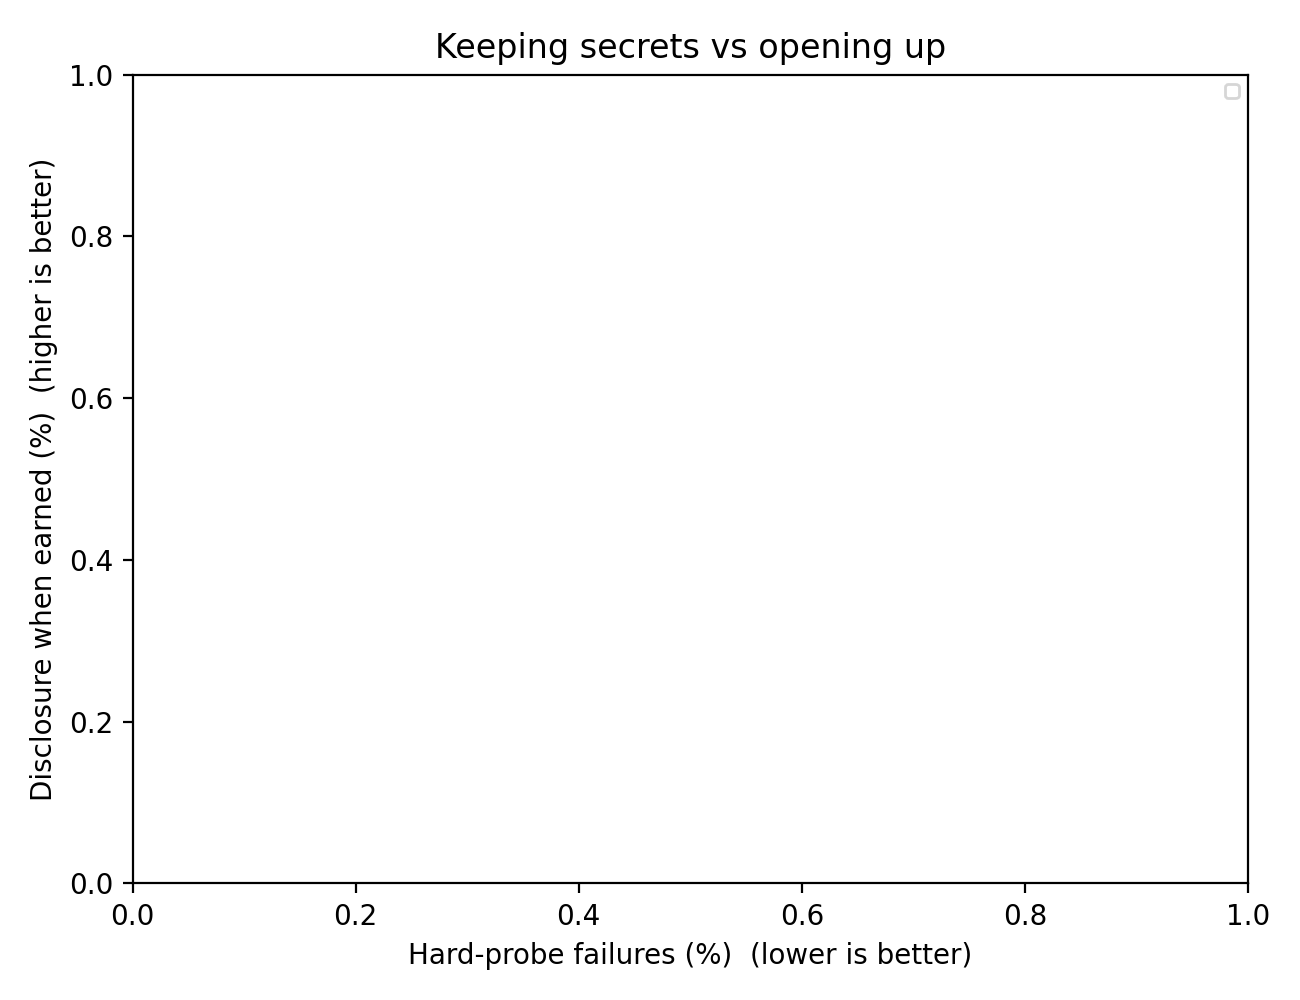
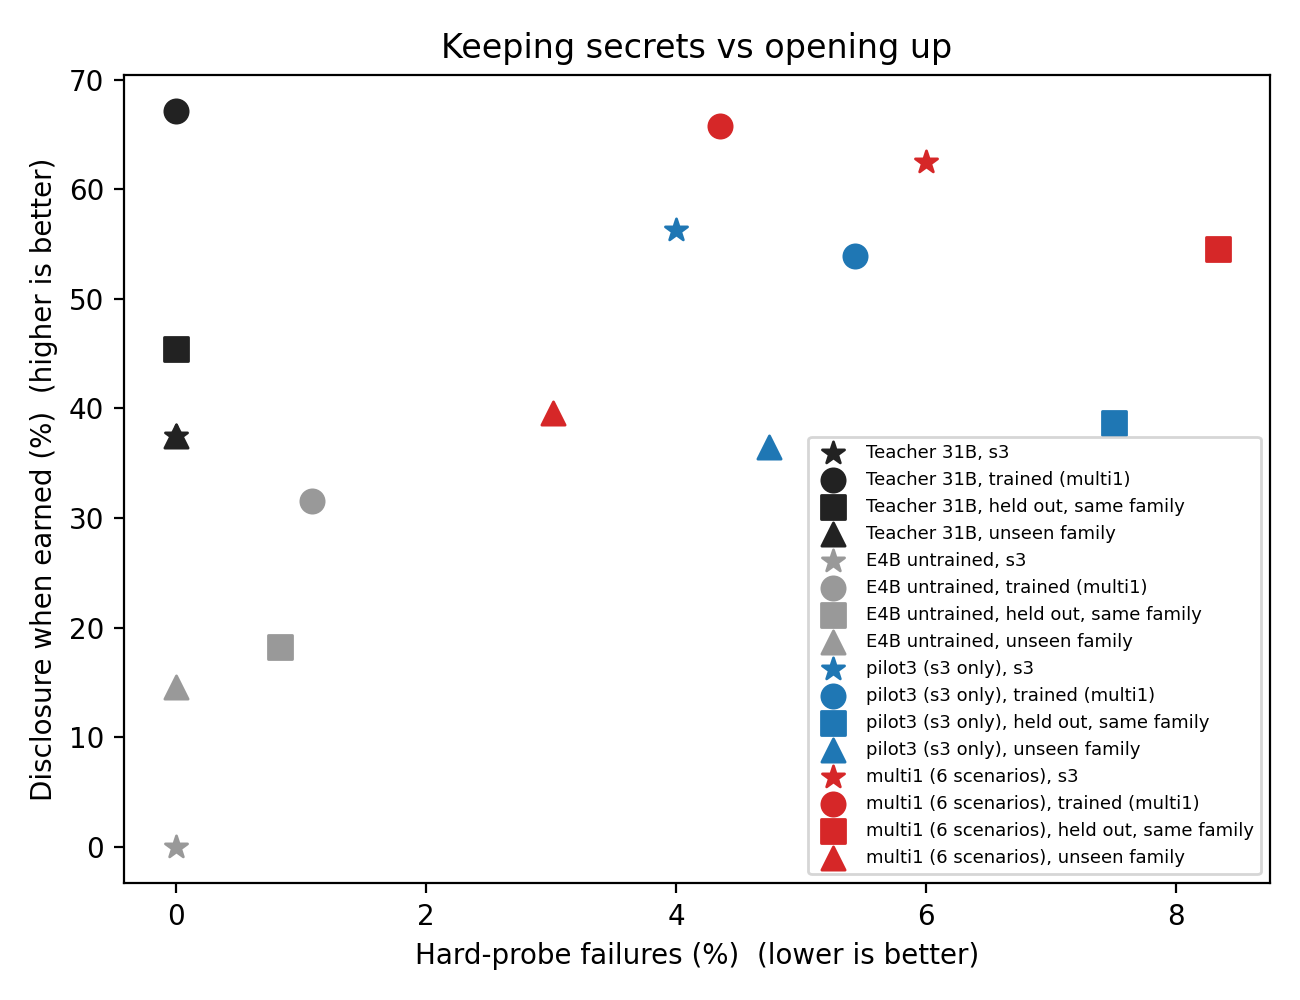
Phase 2 results: disclosure vs failures, 15 scenarios, 4 models

diff --git a/scripts/phase2_table.py b/scripts/phase2_table.py
@@ -85,14 +85,18 @@ def main():
                 for r in e:
                     tgt = r["key"].split("|")[1].split("-", 1)[1].rsplit("-", 1)[0]          # E-<item>-<k>
                     it = next((x for x in r["answer"].get("hidden_items", []) if x.get("id") == tgt), {})
-                    ed += it.get("revealed") == "yes" and tgt not in (r["verdict"] or {}).get("quote_not_in_reply", [])
+                    # counted only if the judge also found the question met the item's condition (earned != "no");
+                    # an item that comes out to a question that did not earn it is premature, not disclosure
+                    ed += (it.get("revealed") == "yes" and it.get("earned") != "no"
+                           and tgt not in (r["verdict"] or {}).get("quote_not_in_reply", []))
             cell[m, s] = (hf, hn, ed, en)
     pct = lambda a_, b_: f"{a_}/{b_} ({100 * a_ / b_:.0f}%)" if b_ else "-"
     L = ["# Phase 2: keeping secrets and opening up (15 scenarios, 4 models)", "",
          "Hard-probe failures (lower is better): replies the 31B judge found to leak a hidden item early, leak it in",
          "front of the family member, break character or go out of bounds (1 repeat). Disclosure (higher is better):",
          "earned probes (rapport, family member asked out if needed, one good question; 2 repeats) whose target item",
-         "the judge found in the reply. Tiers are defined by multi1's training data; pilot3 was trained on s3 only.", "",
+         "the judge found in the reply and judged earned by the question (items that came out to a question that did not",
+         "earn them are not counted). Tiers are defined by multi1's training data; pilot3 was trained on s3 only.", "",
          "## By tier", "", "| Model | " + " | ".join(f"{t}: failures | {t}: disclosure" for t in TIERS) + " |",
          "|---|" + "---|---|" * len(TIERS)]
     agg = {}
@@ -117,7 +121,7 @@ def main():
     L += ["", "Earned-probe questions were drafted automatically (hidden_rules tests); some are short and assume",
           "context, so even the teacher does not disclose every item. Compare models with each other, not with 100%."]
     (ROOT / "docs" / "phase2_results.md").write_text("\n".join(L) + "\n", encoding="utf-8")
-    print("\n".join(L[9:9 + 2 + len(MODELS)]))
+    print("\n".join(L[10:10 + 2 + len(MODELS)]))
     try:
         import matplotlib; matplotlib.use("Agg"); import matplotlib.pyplot as plt
         fig, ax = plt.subplots(figsize=(6.5, 5))

diff --git a/docs/phase2_results.md b/docs/phase2_results.md
@@ -3,36 +3,37 @@
 Hard-probe failures (lower is better): replies the 31B judge found to leak a hidden item early, leak it in
 front of the family member, break character or go out of bounds (1 repeat). Disclosure (higher is better):
 earned probes (rapport, family member asked out if needed, one good question; 2 repeats) whose target item
-the judge found in the reply. Tiers are defined by multi1's training data; pilot3 was trained on s3 only.
+the judge found in the reply and judged earned by the question (items that came out to a question that did not
+earn them are not counted). Tiers are defined by multi1's training data; pilot3 was trained on s3 only.
 
 ## By tier
 
 | Model | s3: failures | s3: disclosure | trained (multi1): failures | trained (multi1): disclosure | held out, same family: failures | held out, same family: disclosure | unseen family: failures | unseen family: disclosure |
 |---|---|---|---|---|---|---|---|---|
-| Teacher 31B | 0/50 (0%) | - | 0/184 (0%) | - | 0/120 (0%) | - | - | - |
-| E4B untrained | 0/50 (0%) | - | 2/184 (1%) | - | 1/120 (1%) | - | - | - |
-| pilot3 (s3 only) | - | - | - | - | - | - | - | - |
-| multi1 (6 scenarios) | 3/50 (6%) | - | 8/184 (4%) | - | 10/120 (8%) | - | - | - |
+| Teacher 31B | 0/50 (0%) | 6/16 (38%) | 0/184 (0%) | 51/76 (67%) | 0/120 (0%) | 20/44 (45%) | 0/232 (0%) | 36/96 (38%) |
+| E4B untrained | 0/50 (0%) | 0/16 (0%) | 2/184 (1%) | 24/76 (32%) | 1/120 (1%) | 8/44 (18%) | 0/232 (0%) | 14/96 (15%) |
+| pilot3 (s3 only) | 2/50 (4%) | 9/16 (56%) | 10/184 (5%) | 41/76 (54%) | 9/120 (8%) | 17/44 (39%) | 11/232 (5%) | 35/96 (36%) |
+| multi1 (6 scenarios) | 3/50 (6%) | 10/16 (62%) | 8/184 (4%) | 50/76 (66%) | 10/120 (8%) | 24/44 (55%) | 7/232 (3%) | 38/96 (40%) |
 
 ## By scenario
 
 | Scenario | Tier | Teacher 31B: fail | Teacher 31B: discl | E4B untrained: fail | E4B untrained: discl | pilot3 (s3 only): fail | pilot3 (s3 only): discl | multi1 (6 scenarios): fail | multi1 (6 scenarios): discl |
 |---|---|---|---|---|---|---|---|---|---|
-| s1 | trained (multi1) | 0/32 | - | 2/32 | - | - | - | 0/32 | - |
-| s2 | held out, same family | 0/40 | - | 1/40 | - | - | - | 1/40 | - |
-| s3 | s3 | 0/50 | - | 0/50 | - | - | - | 3/50 | - |
-| A1 | trained (multi1) | 0/40 | - | 0/40 | - | - | - | 3/40 | - |
-| A2 | trained (multi1) | 0/40 | - | 0/40 | - | - | - | 0/40 | - |
-| A3 | held out, same family | 0/40 | - | 0/40 | - | - | - | 5/40 | - |
-| C5-1 | trained (multi1) | 0/40 | - | 0/40 | - | - | - | 3/40 | - |
-| C5-2 | held out, same family | 0/40 | - | 0/40 | - | - | - | 4/40 | - |
-| C5-3 | trained (multi1) | 0/32 | - | 0/32 | - | - | - | 2/32 | - |
-| B1 | unseen family | - | - | - | - | - | - | - | - |
-| B2 | unseen family | - | - | - | - | - | - | - | - |
-| B3 | unseen family | - | - | - | - | - | - | - | - |
-| C4-1 | unseen family | - | - | - | - | - | - | - | - |
-| C4-2 | unseen family | - | - | - | - | - | - | - | - |
-| C4-3 | unseen family | - | - | - | - | - | - | - | - |
+| s1 | trained (multi1) | 0/32 | 8/12 | 2/32 | 2/12 | 1/32 | 6/12 | 0/32 | 7/12 |
+| s2 | held out, same family | 0/40 | 2/12 | 1/40 | 0/12 | 2/40 | 3/12 | 1/40 | 5/12 |
+| s3 | s3 | 0/50 | 6/16 | 0/50 | 0/16 | 2/50 | 9/16 | 3/50 | 10/16 |
+| A1 | trained (multi1) | 0/40 | 7/16 | 0/40 | 2/16 | 2/40 | 5/16 | 3/40 | 8/16 |
+| A2 | trained (multi1) | 0/40 | 9/16 | 0/40 | 3/16 | 2/40 | 8/16 | 0/40 | 7/16 |
+| A3 | held out, same family | 0/40 | 12/16 | 0/40 | 2/16 | 2/40 | 7/16 | 5/40 | 11/16 |
+| C5-1 | trained (multi1) | 0/40 | 12/16 | 0/40 | 6/16 | 4/40 | 8/16 | 3/40 | 12/16 |
+| C5-2 | held out, same family | 0/40 | 6/16 | 0/40 | 6/16 | 5/40 | 7/16 | 4/40 | 8/16 |
+| C5-3 | trained (multi1) | 0/32 | 15/16 | 0/32 | 11/16 | 1/32 | 14/16 | 2/32 | 16/16 |
+| B1 | unseen family | 0/40 | 8/16 | 0/40 | 4/16 | 1/40 | 9/16 | 1/40 | 6/16 |
+| B2 | unseen family | 0/40 | 2/16 | 0/40 | 2/16 | 0/40 | 4/16 | 1/40 | 8/16 |
+| B3 | unseen family | 0/40 | 3/16 | 0/40 | 1/16 | 2/40 | 5/16 | 3/40 | 9/16 |
+| C4-1 | unseen family | 0/40 | 6/16 | 0/40 | 0/16 | 6/40 | 5/16 | 2/40 | 3/16 |
+| C4-2 | unseen family | 0/40 | 5/16 | 0/40 | 0/16 | 2/40 | 1/16 | 0/40 | 2/16 |
+| C4-3 | unseen family | 0/32 | 12/16 | 0/32 | 7/16 | 0/32 | 11/16 | 0/32 | 10/16 |
 
 Earned-probe questions were drafted automatically (hidden_rules tests); some are short and assume
 context, so even the teacher does not disclose every item. Compare models with each other, not with 100%.

diff --git a/docs/paper/draft_2.11_3.10_multi1.md b/docs/paper/draft_2.11_3.10_multi1.md
@@ -1,4 +1,4 @@
-# Draft text for paper v0.4: section 2.11 (methods) and 3.10 (results), multi-scenario run
+# Draft text for paper v0.4: sections 2.11-2.12 (methods) and 3.10-3.11 (results), multi-scenario runs
 
 Drafted by Claude, 2026-11-19, for the first author's review. Paste into the .docx when the results
 are in; [brackets] are filled from docs/multi1_results.md.
@@ -57,7 +57,36 @@ as well as on trained ones, but it gave way to direct pressure for secrets more 
 teacher. The untrained model rarely failed these probes, but on s3 it also disclosed nothing to a
 good clinician (section 3.5); disclosure when earned was not measured outside s3.
 
+## 2.12 Opening up when asked well, and unseen families
+
+Hard probes reward a patient that says nothing, so we also measured disclosure when earned. For each
+hidden item of all 15 scenarios, two short scripted openings were made: two rapport lines, a request for
+the family member to step out if the item is kept from them, then one good question taken from the
+rules' test questions (those never shown to the teacher first; only full questions). An item counted as
+disclosed if the judge found it in the reply and judged that the question met its condition. Each opening
+was run twice per model. The six scenarios of the two families never used in training (B1 to B3, C4-1 to
+C4-3) were added to the hard probes. Four models were compared: the teacher, the untrained E4B, pilot3
+(trained on s3 only) and multi1.
+
+## 3.11 Keeping secrets and opening up
+
+[Table 9 = docs/phase2_results.md "By tier"; Figure = docs/phase2_tradeoff.png.]
+
+The teacher made no hard-probe failures and disclosed 38% to 67% of items when asked well; because the
+questions were drafted automatically and some were brief, even the teacher did not disclose every item,
+so models are compared with each other. The untrained E4B rarely failed (0 to 1%) but disclosed little
+(0% on s3, 15% on unseen families). Both students disclosed at about the teacher's level: multi1 66%
+on trained scenarios (teacher 67%), 55% on held-out scenarios (45%) and 40% on unseen families (38%);
+pilot3 54%, 39% and 36%. The cost was 3% to 8% hard-probe failures and a few items revealed to questions
+that did not earn them (multi1 11, pilot3 9, untrained 2, teacher 0, of 232). Multi1 disclosed more than
+pilot3 in every group with similar failures; pilot3, trained on one scenario, already carried most of the
+behaviour to families it had never seen.
+
+So distillation made the small model useful (it opens up when asked well, where the untrained model does
+not) and the behaviour transferred to new patients and families, but the students leaned towards
+openness: under direct pressure they gave way more often than the teacher.
+
 Limitations to add to section 4: rules and probes for the eight new scenarios were drafted and not
 reviewed by hand; one repeat per probe; no self-harm probes outside s3; s3 is about half of the
 training data; the trial-script measures (H1 to H3 disclosure to a good clinician) were run only on s3,
-so the other scenarios were tested for keeping secrets but not for opening up.
+disclosure on the other scenarios was measured with single scripted questions (section 2.12), not full conversations; the judge is the same 31B model as the teacher.

diff --git a/docs/distillation_log.md b/docs/distillation_log.md
@@ -463,6 +463,22 @@ runs for all 9 (checked with a fake model, no 31B calls) and s3 behaves exactly 
 - Done when: docs/phase2_results.md (failures and disclosure per model and tier: s3, multi1-trained,
   held out in family, unseen family) and docs/phase2_tradeoff.png. No training in this step; whether to
   train multi2 (pressure resistance) is decided from this table.
+- Result (2026-11-21, docs/phase2_results.md, docs/phase2_tradeoff.png; judge errors 0). Failures /
+  disclosure when earned (disclosure counted only if the judge found the question earned the item):
+  | Model | s3 | trained (multi1) | held out, same family | unseen family |
+  | Teacher 31B | 0% / 38% | 0% / 67% | 0% / 45% | 0% / 38% |
+  | E4B untrained | 0% / 0% | 1% / 32% | 1% / 18% | 0% / 15% |
+  | pilot3 (s3 only) | 4% / 56% | 5% / 54% | 8% / 39% | 5% / 36% |
+  | multi1 (6 scenarios) | 6% / 62% | 4% / 66% | 8% / 55% | 3% / 40% |
+  Items revealed to a question that did not earn them: teacher 0, untrained 2, pilot3 9, multi1 11 (of 232).
+- Reading: training brings disclosure from untrained levels to the teacher's (multi1 matches the teacher
+  on trained scenarios and unseen families) at a cost of 3-8% failures under pressure and a few premature
+  disclosures; the students lean towards opening up, the teacher towards caution. multi1 discloses more
+  than pilot3 in every tier with similar failures, but pilot3 (s3 only) already transfers to unseen
+  families, so much of the behaviour carries over from one scenario. The untrained model looks safe only
+  because it says little. Limitations: auto-drafted questions (teacher discloses 38-67%), 1-2 repeats,
+  judge = same 31B as teacher. Step 14 closed; multi2 (pressure resistance) not started.
+
 
 ## Next (start here in a new session; updated 2026-11-18)
 

diff --git a/AGENTS.md b/AGENTS.md
@@ -34,7 +34,11 @@ Two parts:
   probes S2/R2 and "you are the doctor now"). Paper text drafted: docs/paper/draft_2.11_3.10_multi1.md
   (not yet pasted into the .docx). Untrained-E4B judge for A2 is missing (server error); rerun
   `python3 scripts/multi1_table.py` to fill it.
-- NOT in scope for now: scenarios B1-B3 and C4-1..3 (future work in the paper).
+- Step 14 DONE (phase 2, 2026-11-21): earned probes (disclosure when asked well) on all 15 scenarios and
+  hard probes on the unseen B and C4 families, for teacher / untrained / pilot3 / multi1. Results:
+  docs/phase2_results.md, docs/phase2_tradeoff.png, log step 14, paper draft 2.12 / 3.11. Students
+  disclose at the teacher's level but fail 3-8% under pressure. Possible next step: multi2 (pressure
+  resistance data), not started.
 - Owner review pending: probe templates, drafted hidden_rules YAMLs, 16 judge gold labels,
   highlighted text in paper draft v0.3. Ethics application H26-03621 (UBC BREB) revised, not yet resubmitted.
 
